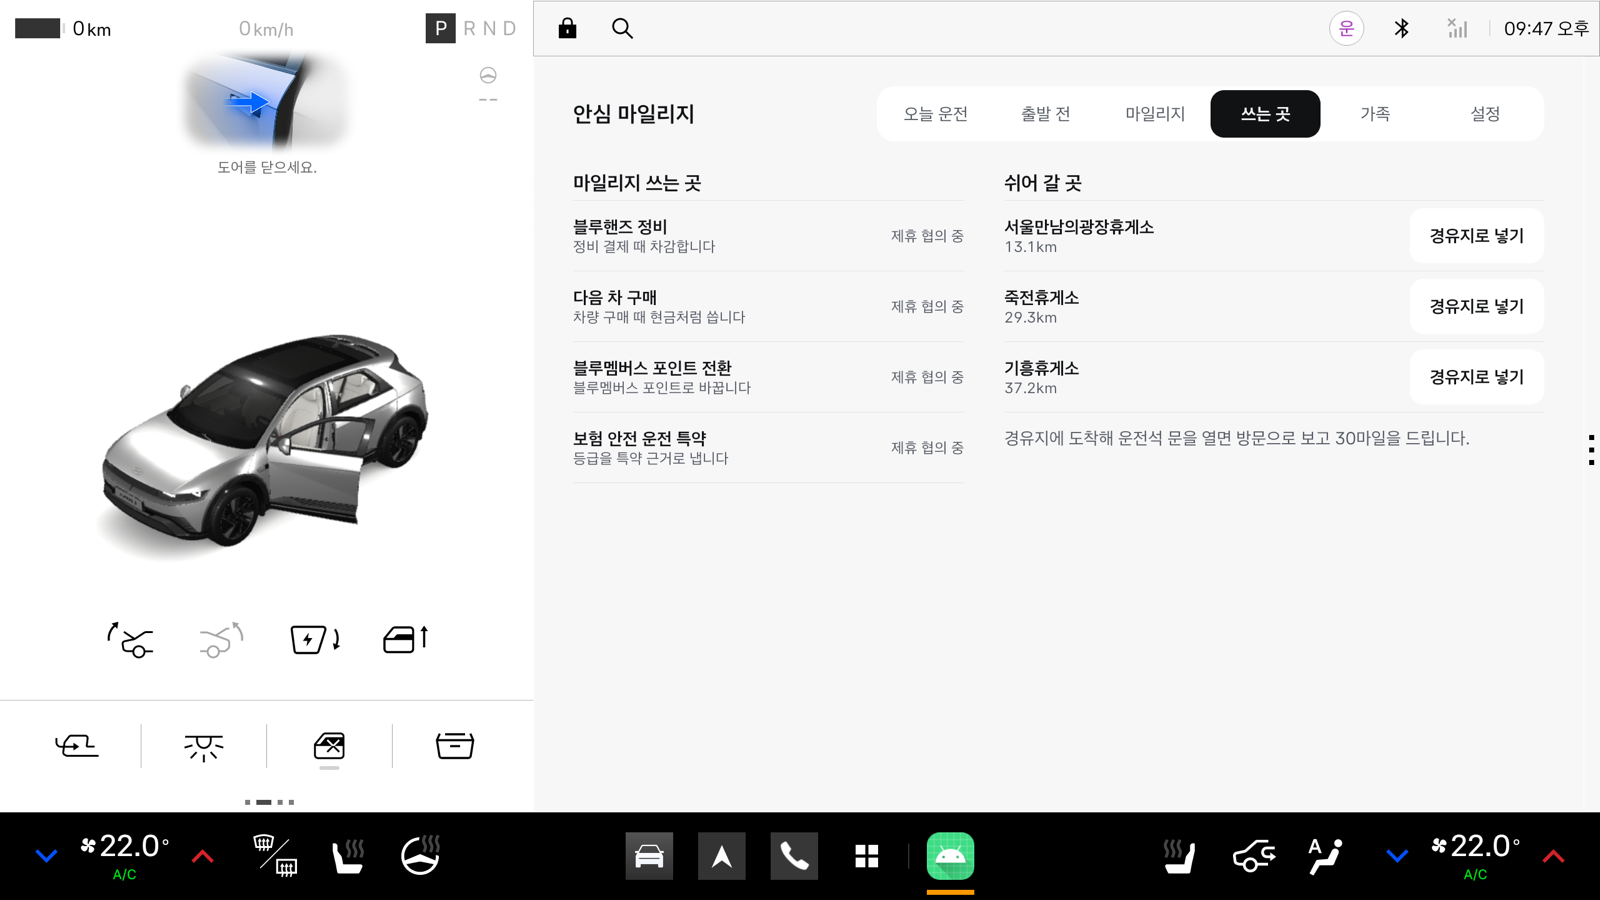
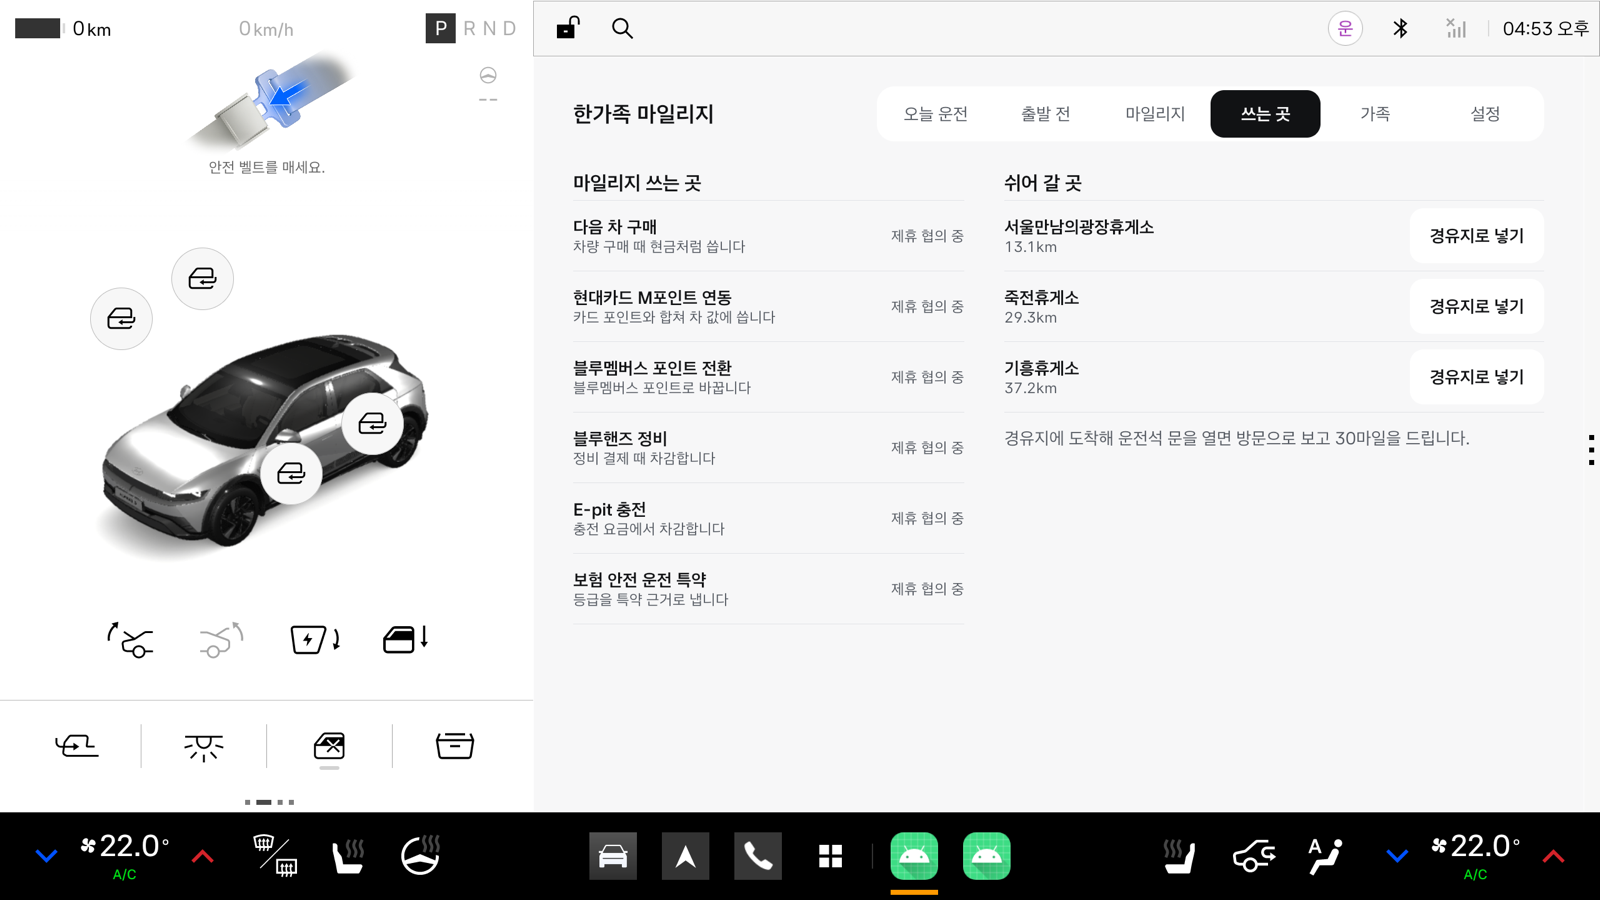
README를 한가족 마일리지 기획으로 수정

diff --git a/README.md b/README.md
@@ -1,20 +1,20 @@
 <div align="center">
 
-# 안심 마일리지
+# 한가족 마일리지
 
-**조건부 면허 시대의 안전운전 마일리지**
+**현대차그룹 생태계의 첫 가족결합, 안전운전 마일리지**
 
-안전하게 운전한 만큼 마일리지가 쌓입니다. 부모님이 쌓으면 가족이 함께 씁니다.
+가족이 안전하게 운전한 만큼 함께 쌓고, 가족이 현대차와 기아를 더 많이 탈수록 더 크게 쌓입니다.
 
 현대차와 기아의 Pleos Connect 차량용 앱 | 현대차그룹 차량용 앱 개발 공모전 출품작
 
 ![Platform](https://img.shields.io/badge/Pleos_Connect-AAOS_14-0B7D54?style=flat-square)
 ![Kotlin](https://img.shields.io/badge/Kotlin-2.2-7F52FF?style=flat-square&logo=kotlin&logoColor=white)
 ![Jetpack Compose](https://img.shields.io/badge/Jetpack_Compose-BOM_2026.09-4285F4?style=flat-square&logo=jetpackcompose&logoColor=white)
-![Tests](https://img.shields.io/badge/unit_tests-22_passed-0B7D54?style=flat-square)
+![Tests](https://img.shields.io/badge/unit_tests-25_passed-0B7D54?style=flat-square)
 ![Offline](https://img.shields.io/badge/서버-없이_동작-555A62?style=flat-square)
 
-[APK 받기](apk/Drivoice_안심마일리지_release.apk) | [시연 영상](.github/readme/demo.mp4) | [설치와 실행](#설치와-실행) | [시연 순서](#시연-순서)
+[APK 받기](apk/Drivoice_한가족마일리지_release.apk) | [시연 영상](.github/readme/demo.mp4) | [설치와 실행](#설치와-실행) | [시연 순서](#시연-순서)
 
 <br>
 
@@ -28,36 +28,38 @@
 
 ## 요약
 
-안심 마일리지는 운전 습관을 차가 직접 기록하고, 안전하게 운전한 만큼 마일리지를 주는 Pleos Connect 앱입니다. 회전할 때 깜빡이를 제때 켜고, 스스로 정한 운전 조건을 지키고, 오래 달렸으면 쉬면 마일리지가 쌓입니다. 어겨도 깎지 않고, 쌓이지 않을 뿐입니다.
+한가족 마일리지는 통신사의 가족결합을 자동차에 옮긴 Pleos Connect 앱입니다. 깜빡이를 제때 켜고, 과속과 급제동 없이 달리고, 가족과 정한 운전 약속을 지키면 가족 지갑에 마일리지가 쌓입니다. 가족이 결합한 현대차, 기아 차가 한 대 늘 때마다 모든 적립에 10%가 더 붙고(최대 30%), 쌓인 마일리지는 다음 차 값, 현대카드 M포인트, 블루멤버스, 블루핸즈, E-pit 충전에 씁니다.
 
-가족은 마일리지 잔액과 "이번 주 조건을 지켰습니다" 같은 배지만 봅니다. 위치와 운전 기록은 차 밖으로 나가지 않습니다.
+가족은 서로의 이번 주 안전 점수와 감점 횟수를 봅니다. 위치와 경로, 언제 어디서 감점됐는지는 차 밖으로 나가지 않습니다.
 
 | 항목 | 내용 |
 |---|---|
-| 주 사용자 | 65세 이상 운전자와 50대 이상 장년 운전자 |
-| 함께 쓰는 사람 | 떨어져 사는 자녀와 가족 |
-| 화면 | 9개 (동의, 운전 조건, 출발 전, 오늘 운전, 마일리지, 쓰는 곳, 가족, 설정, 주행 중). 운전 조건은 출발 전 탭 안에 있습니다 |
-| 판정 | 회전 깜빡이(내비 안내 기준, 내비 없는 회전), 야간 운전, 고속도로, 연속 운전 시간, 휴식 |
+| 사용자 | 현대차, 기아를 타는 가족. 초보부터 장년까지 운전자 전원 |
+| 적립 | 회전 깜빡이, 주행 거리, 운전 약속, 쉬어 가기, 가족 결합 추가 적립 |
+| 감점 | 과속, 급제동, 깜빡이 놓침. 주간 100점에서 깎고, 쌓인 마일리지는 깎지 않습니다 |
+| 화면 | 9개 (동의, 운전 조건, 출발 전, 오늘 운전, 마일리지, 쓰는 곳, 가족, 설정, 주행 중) |
+| 쓰는 곳 | 다음 차 구매, 현대카드 M포인트, 블루멤버스, 블루핸즈 정비, E-pit 충전, 보험 특약 (제휴 협의 전) |
 | 사용 SDK | Pleos Vehicle, NaviHelper, TextToSpeech, SpeechToText, AAOS Car API |
-| 저장 | 기기 안 파일 하나. 서버 없이 동작합니다 |
-| 검증 | 단위 테스트 22건 통과, 에뮬레이터에서 동의부터 정차 후 요약까지 주행 1회 |
+| 저장 | 기기 안 파일 하나. 서버 없이 동작합니다. 다른 가족의 점수는 서버를 잇기 전이라 예시입니다 |
+| 검증 | 단위 테스트 25건 통과, 에뮬레이터에서 급제동 감점과 결합 추가 적립까지 확인 |
 
 <br>
 
 ## 문제 정의
 
-고령 운전자는 해마다 늘고, 제도는 면허를 제한하는 쪽으로 움직입니다. 그런데 교외와 시골에서 면허를 내려놓으면 이동 수단이 사라집니다. 안전하게 운전하는 사람을 알아보고 보상하는 장치는 아직 없습니다.
+자동차 경쟁은 한 대를 잘 만드는 경쟁에서 고객을 생태계에 묶어 두는 경쟁으로 바뀌었습니다. 현대차그룹은 멤버십, 카드, 정비망, 충전망을 모두 갖고 있지만, 이 자산은 차를 사거나 고칠 때만 작동합니다. 고객이 가장 오래 머무는 운전 시간과, 한 가족 안의 여러 대의 차를 잇는 고리가 없습니다.
 
 | 항목 | 값 | 출처 |
 |---|---|---|
-| 고령 운전자 교통사고(2025) | 45,873건, 전년 대비 +8.3% | 경찰청 2025 교통사고 통계 |
-| 고령 운전자 교통사고 사망자(2025) | 843명, 전체 사망자의 33% | 경찰청 |
-| 65세 이상 면허 소지자(2023) | 470만 명. 2019년 330만 명에서 증가 | 주간경향 2024-07 |
-| 조건부 운전면허 | 야간, 고속도로 운전 제한을 검토 중. 2027년 하반기 도입 목표 | 매일신문 2026-10 |
-| 방향지시등 점등률(2025, 좌회전 관측) | 75.7% | 한국교통안전공단 |
-| 방향지시등 미사용 벌점 | 10점 신설 입법예고. 이르면 2027년 중순 시행 | 이코노미스트 2026-10 |
+| 2026년 9월 국내 차종 판매 1위 | 테슬라 모델Y 11,421대. 그랜저 8,898대, 쏘렌토 6,957대 | [겟차, 산업통상부 9월 자동차산업 동향 인용](https://web.getcha.kr/blog/tesla-model-y-sales-first-place) |
+| 2026년 1~9월 누적 | 쏘렌토 74,933대, 모델Y 73,123대. 차이 1,810대 | 같은 자료 |
+| 2026년 8월 테슬라 수입차 점유율 | 34.9%. 2월부터 7개월 연속 수입 브랜드 1위 | [헤럴드경제 2026-09-02](https://www.heraldk.com/article/2026090220504410941) |
+| 2025년 국내 전기차 판매 | 기아 60,609대, 테슬라 59,893대, 현대차 55,461대 | [뉴스와 2026-02-19](https://www.news-wa.com/article/automobiles/new-car/2026/02/19/20260219500065) |
+| 블루멤버스 패밀리 멤버십 | 2026년 도입. 가족 최대 8명이 포인트를 실시간 공유 | [헤럴드경제 2026-04-30](https://www.heraldk.com/article/2026043018051757030) |
+| 위험운전과 사고 | 사고 운전자가 무사고 운전자보다 위험운전 약 1.5배 | [정책브리핑 2022-05-20](https://www.korea.kr/news/policyNewsView.do?newsId=148901825) |
+| 부모와 자녀의 운전 | 자녀의 위험운전 빈도는 부모의 빈도와 함께 움직이고, 기록을 가족에게 돌려주면 줄어듦 (166가구, 12개월) | [Taubman-Ben-Ari 외 2014](https://cris.iucc.ac.il/en/publications/the-contribution-of-parents-driving-behavior-family-climate-for-r/) |
 
-안심 마일리지의 운전 조건은 조건부 면허가 검토하는 조건(야간 운전, 고속도로)과 같습니다. 제도가 시행되기 전부터 스스로 조건을 정해 지키는 습관을 기록으로 남깁니다.
+한가족 마일리지는 그 고리를 운전석 안에 만듭니다. 결합 혜택의 조건을 요금이 아니라 안전 운전에 두기 때문에, 가족이 포인트를 더 모으려 할수록 가족 모두의 운전이 안전해집니다.
 
 <br>
 
@@ -77,7 +79,19 @@
 |---|---|---|
 | 내비 안내 회전 | 일반 도로 30m 전, 고속도로 100m 전에 깜빡이 켬 | 5 |
 | 내비 없는 회전 | 진행 방향 60도 변화 전 5초 안에 깜빡이 켬 | 2 |
-| 늦게 켜거나 안 켬 | 기록만 하고 깎지 않음 | 0 |
+| 늦게 켜거나 안 켬 | 마일리지는 깎지 않고 안전 점수에서 3점 뺌 | 0 |
+
+### 과속과 급제동 감점
+
+안전 점수는 주간 100점에서 시작해 위험한 행동마다 깎습니다. 감점은 가족에게 보여 습관을 알아차리게 하는 장치이고, 쌓인 마일리지는 깎지 않습니다.
+
+| 항목 | 판정 기준 | 감점 | 신호 |
+|---|---|---|---|
+| 과속 | 제한속도보다 20km/h 넘게 3초 이상. 넘은 구간 하나를 1번으로 셈 | 5 | 차속(`PERF_VEHICLE_SPEED`), 제한속도(NaviHelper) |
+| 급제동 | 브레이크를 밟은 채 초당 11km/h 넘게 감속 | 3 | 브레이크 페달(Vehicle), 차속 |
+| 깜빡이 놓침 | 회전 전에 켜지 않음 | 3 | 방향지시등(Vehicle), 회전 안내(NaviHelper) |
+
+깜빡이 없는 차로 변경은 Pleos SDK가 차선 정보를 주지 않아 아직 판정하지 않습니다.
 
 ### 출발 전에 정하는 운전 조건
 
@@ -99,15 +113,28 @@
 
 ### 쓰는 곳과 쉬어 갈 곳
 
-<img src=".github/readme/06-uses.png" width="100%" alt="쓰는 곳 탭. 블루핸즈 정비, 다음 차 구매, 블루멤버스 포인트 전환, 보험 안전 운전 특약과 휴게소 세 곳의 경유지로 넣기 버튼">
+<img src=".github/readme/06-uses.png" width="100%" alt="쓰는 곳 탭. 다음 차 구매, 현대카드 M포인트 연동, 블루멤버스 포인트 전환, 블루핸즈 정비, E-pit 충전, 보험 안전 운전 특약과 휴게소 세 곳의 경유지로 넣기 버튼">
 
-마일리지는 블루핸즈 정비, 다음 차 구매, 블루멤버스 포인트 전환, 보험 안전 운전 특약에 쓰는 것을 목표로 합니다(제휴 협의 전). 오른쪽 휴게소 목록에서 "경유지로 넣기"를 누르면 내비 경로에 경유지로 들어가고, 도착해 운전석 문을 열면 방문으로 보고 30마일을 줍니다.
+마일리지는 차를 사고, 고치고, 충전하고, 보험에 드는 곳에서 씁니다. 지금은 사용처마다 "제휴 협의 중"으로 표시합니다.
+
+| 사용처 | 쓰는 방식 |
+|---|---|
+| 다음 차 구매 | 현대차, 기아 새 차를 살 때 차 값에서 현금처럼 뺍니다 |
+| 현대카드 M포인트 연동 | 운전 마일리지를 M포인트로 옮겨 카드 포인트와 합칩니다. 장 보며 쌓은 포인트와 운전하며 쌓은 마일리지가 한 지갑에 모입니다 |
+| 블루멤버스 포인트 전환 | 블루멤버스 포인트로 바꿔 멤버십 혜택에 씁니다 |
+| 블루핸즈 정비 | 엔진오일 교환 같은 정비 결제 때 뺍니다 |
+| E-pit 충전 | 전기차 충전 요금에서 뺍니다 |
+| 보험 안전 운전 특약 | 마일리지 등급을 특약 할인 근거로 냅니다 |
+
+마일리지는 차가 아니라 사람에게 쌓입니다. 차를 바꿔도 현대차나 기아 차를 고르면 그동안 쌓은 마일리지와 등급이 그대로 이어지고, 그 마일리지를 새 차 값에 보탤 수 있습니다. 매일 하는 운전이 다음 차를 고를 이유가 됩니다.
+
+오른쪽 휴게소 목록에서 "경유지로 넣기"를 누르면 내비 경로에 경유지로 들어가고, 도착해 운전석 문을 열면 방문으로 보고 30마일을 줍니다.
 
 ### 가족 지갑
 
-<img src=".github/readme/07-family.png" width="100%" alt="가족 탭. 가족 초대 코드 110 572, 가족과 공유 스위치, 가족에게 보이는 것과 보이지 않는 것 목록">
+<img src=".github/readme/07-family.png" width="100%" alt="가족 탭. 현대차, 기아 4대 결합, 모든 적립에 30%를 더 드립니다, 나 97점, 어머니 94점, 딸 78점, 아들 95점과 감점 횟수, 오른쪽에 초대 코드와 가족에게 보이는 것">
 
-가족 초대 코드로 마일리지 지갑을 함께 씁니다. 화면 오른쪽에 가족에게 보이는 것과 보이지 않는 것을 나눠 적었습니다. 위치, 주행 경로, 시각별 기록, 놓친 회전은 가족에게 보이지 않습니다. 어떤 조건을 정했는지 공유할지도 운전자가 정합니다.
+가족 초대 코드로 결합하면 마일리지 지갑을 함께 씁니다. 왼쪽에는 결합 차량 수와 추가 적립률, 가족별 이번 주 안전 점수와 과속, 급제동, 깜빡이 놓침 횟수가 나옵니다. 위치, 경로, 언제 어디서 감점됐는지는 가족에게 보이지 않습니다. 공유를 끄면 가족 화면에는 잔액만 남고 결합 추가 적립도 멈춥니다. 다른 가족 3명의 점수는 서버를 잇기 전이라 예시입니다.
 
 ### 동의와 설정
 
@@ -130,8 +157,9 @@
 | 7일 연속 | 조건 지킨 날이 7일 이어짐 | 100 |
 | 쉬어 가기 | 30분 이상, 정한 시간 안에 달린 뒤 10분 이상 쉼 | 회당 10 |
 | 제휴처 방문 | 경유지 도착 뒤 10분 안에 운전석 문을 엶 | 30 |
+| 가족 결합 | 결합 차량 2대 10%, 3대 20%, 4대 이상 30% | 그 운전 적립에 더함 |
 
-하루 상한은 300마일이고 제휴처 방문은 상한에서 뺍니다. 실버는 누적 3,000마일과 최근 30일 깜빡이 준수율 90% 이상, 골드는 누적 10,000마일과 최근 90일 조건 준수율 95% 이상입니다.
+하루 상한은 300마일이고 제휴처 방문과 가족 결합 추가분은 상한에서 뺍니다. 실버는 누적 3,000마일과 최근 30일 깜빡이 준수율 90% 이상, 골드는 누적 10,000마일과 최근 90일 조건 준수율 95% 이상입니다.
 
 <br>
 
@@ -179,20 +207,20 @@ Pleos 디자인 가이드의 값을 그대로 토큰으로 옮겼습니다(`ui/T
 | 항목 | 값 |
 |---|---|
 | 에뮬레이터 | Pleos Connect v2.1.0 (Android 14, API 34, 2560×1440) |
-| APK | [`apk/Drivoice_안심마일리지_release.apk`](apk/Drivoice_안심마일리지_release.apk) (release 빌드, 40MB). [Releases](https://github.com/wjdtkdgns777/ansim-mileage-private/releases/latest)에도 같은 파일이 있습니다 |
+| APK | [`apk/Drivoice_한가족마일리지_release.apk`](apk/Drivoice_한가족마일리지_release.apk) (release 빌드, 40MB). [Releases](https://github.com/wjdtkdgns777/ansim-mileage-private/releases/latest)에도 같은 파일이 있습니다 |
 | 차량 값 조작 | Pleos Connect Virtual Console (`http://127.0.0.1:8088/`) |
 
 ### APK 설치
 
 ```bash
-adb install -r apk/Drivoice_안심마일리지_release.apk
+adb install -r apk/Drivoice_한가족마일리지_release.apk
 ```
 
 ```bash
 adb forward tcp:8088 tcp:8088
 ```
 
-앱 서랍에서 안심 마일리지를 열고 "동의하고 시작"을 누릅니다. 이어서 뜨는 차속(위치 그룹)과 마이크 권한을 허용합니다. 차량 전용 앱(`android.hardware.type.automotive`)이라 휴대폰 에뮬레이터에는 설치되지 않습니다.
+앱 서랍에서 한가족 마일리지를 열고 "동의하고 시작"을 누릅니다. 이어서 뜨는 차속(위치 그룹)과 마이크 권한을 허용합니다. 차량 전용 앱(`android.hardware.type.automotive`)이라 휴대폰 에뮬레이터에는 설치되지 않습니다.
 
 제출한 APK는 release 빌드입니다. 에뮬레이터 내비는 실제로 움직이지 않습니다. 그래서 회전 안내를 재생하는 시연 도구를 release 빌드의 설정 탭에도 넣었습니다. 서명은 Android 기본 디버그 키로 했습니다.
 
@@ -284,7 +312,7 @@ flowchart LR
 
 | 항목 | 결과 |
 |---|---|
-| 단위 테스트 | 22건 통과. 내비 회전 판정 7건, 내비 없는 회전 4건, 마일리지와 일몰 계산 10건, 기본 1건 |
+| 단위 테스트 | 25건 통과. 내비 회전 판정 7건, 내비 없는 회전 4건, 마일리지, 결합, 점수, 일몰 계산 13건, 기본 1건 |
 | 에뮬레이터 주행 | 회전 3번 중 2번 제때 켬, 주행 12km. 오늘 +154마일(회전 10, 거리 24, 조건 지킨 날 20, 7일 연속 100) |
 | 음성 | 정차 후 요약 음성, 쉬어 가기 질문과 8초 응답 대기 |
 | 내비 연동 | 회전 안내, 목적지, 도착 예정 시각 수신. 무료도로 우선 요청이 내비에 도착 |
@@ -320,7 +348,8 @@ flowchart LR
 
 ## 남은 작업
 
-- [ ] 마일리지 서버와 가족 웹. 지금은 기기 안에만 저장합니다
+- [ ] 가족 결합 서버. 지금은 기기 안에만 저장하고 다른 가족 점수는 예시입니다
+- [ ] 실제 내비 경로로 과속 판정 확인
 - [ ] 실제 경로 재생으로 회전 판정 정확도 측정
 - [ ] 어두운 테마와 2분할 화면 점검
-- [ ] 블루핸즈, 블루멤버스, 휴게소, 보험사 제휴 협의
+- [ ] 현대카드, 블루멤버스, 블루핸즈, E-pit, 휴게소, 보험사 제휴 협의
